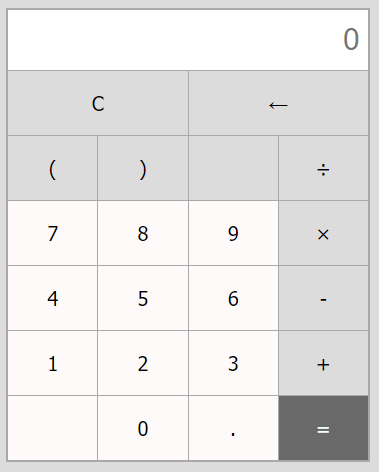
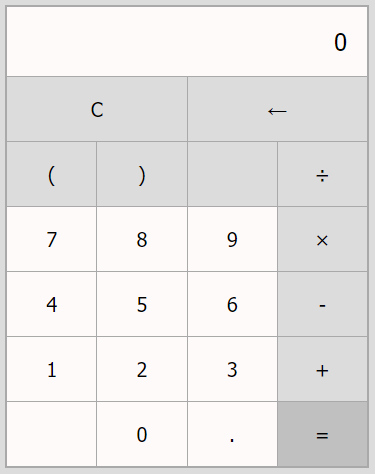
Updates

diff --git a/static/js/main.d95bdc78.chunk.js b/static/js/main.d95bdc78.chunk.js
@@ -1,0 +1,2 @@
+(this["webpackJsonpcalculator-react"]=this["webpackJsonpcalculator-react"]||[]).push([[0],{12:function(c,e,l){},14:function(c,e,l){"use strict";l.r(e);var a=l(1),t=l.n(a),i=l(3),n=l.n(i),s=l(4),r=l(5),d=l(7),o=l(6),_=(l(12),l(0)),u=function(c){Object(d.a)(l,c);var e=Object(o.a)(l);function l(){var c;return Object(s.a)(this,l),(c=e.call(this)).state={display:"0"},c.calcStr="",c}return Object(r.a)(l,[{key:"calculation",value:function(c){for(var e=(c=(c=c=c.replace(/([^[0-9.]{1})/g," $1 ").trim()).replace(/ {1,}/g," ")).split(/\s/),l=[],a=[],t=-1,i=-1,n=0;n<e.length;n++)switch(e[n]){case"+":for(;i>=0&&("+"===a[i]||"-"===a[i]||"*"===a[i]||"/"===a[i]);)l[++t]=a[i],i--;a[++i]=e[n];break;case"-":for(;i>=0&&("+"===a[i]||"-"===a[i]||"*"===a[i]||"/"===a[i]);)l[++t]=a[i],i--;a[++i]=e[n];break;case"*":for(;i>=0&&("*"===a[i]||"/"===a[i]);)l[++t]=a[i],i--;a[++i]=e[n];break;case"/":for(;i>=0&&("*"===a[i]||"/"===a[i]);)l[++t]=a[i],i--;a[++i]=e[n];break;case"(":a[++i]=e[n];break;case")":for(;i>=0&&"("!==a[i];)l[++t]=a[i],i--;i--;break;default:l[++t]=e[n]}for(;i>=0;)l[++t]=a[i],i--;i=-1;var s=t;for(t=0;t<=s;t++)switch(l[t]){case"+":a[--i]=a[i]+a[i+1];break;case"-":a[--i]=a[i]-a[i+1];break;case"*":a[--i]=a[i]*a[i+1];break;case"/":a[--i]=a[i]/a[i+1];break;default:a[++i]=parseFloat(l[t])}return a[i]}},{key:"equal",value:function(){if(this.calcStr){var c="";try{c=this.calculation(this.calcStr)}catch(e){c="\u041e\u0448\u0438\u0431\u043a\u0430 \u0432 \u0432\u044b\u0440\u0430\u0436\u0435\u043d\u0438\u0438!"}isNaN(c)&&(c="\u041e\u0448\u0438\u0431\u043a\u0430 \u0432 \u0432\u044b\u0440\u0430\u0436\u0435\u043d\u0438\u0438!"),this.setState({display:this.calcStr+"="+c})}}},{key:"addToInput",value:function(c){this.calcStr+=c,this.calcStr=this.control(this.calcStr),this.setState({display:this.calcStr})}},{key:"clean",value:function(){this.calcStr="0",this.setState({display:this.calcStr}),this.calcStr=""}},{key:"back",value:function(){this.calcStr=this.calcStr.substr(0,this.calcStr.length-1),this.setState({display:this.calcStr})}},{key:"control",value:function(c){return c=(c=(c=(c=c.replace(/\++/g,"+")).replace(/\\--/g,"+")).replace(/\.\./g,".")).replace(/[+-][-+]/g,"-")}},{key:"render",value:function(){var c=this;return Object(_.jsx)("div",{className:"container",children:Object(_.jsxs)("div",{className:"container__cells",children:[Object(_.jsx)("div",{className:"cell__display",children:this.state.display}),Object(_.jsx)("div",{className:"cell__clear cell__active",onClick:function(){c.clean()},children:"C"}),Object(_.jsx)("div",{className:"cell__back cell__active",onClick:function(){c.back()},children:"\u2190"}),Object(_.jsx)("div",{className:"cell__math cell__active",onClick:function(){c.addToInput("(")},children:"("}),Object(_.jsx)("div",{className:"cell__math cell__active",onClick:function(){c.addToInput(")")},children:")"}),Object(_.jsx)("div",{className:"cell__math cell__passive"}),Object(_.jsx)("div",{className:"cell__math cell__active",onClick:function(){c.addToInput("/")},children:"\xf7"}),Object(_.jsx)("div",{className:"cell__num cell__active",onClick:function(){c.addToInput("7")},children:"7"}),Object(_.jsx)("div",{className:"cell__num cell__active",onClick:function(){c.addToInput("8")},children:"8"}),Object(_.jsx)("div",{className:"cell__num cell__active",onClick:function(){c.addToInput("9")},children:"9"}),Object(_.jsx)("div",{className:"cell__math cell__active",onClick:function(){c.addToInput("*")},children:"\xd7"}),Object(_.jsx)("div",{className:"cell__num cell__active",onClick:function(){c.addToInput("4")},children:"4"}),Object(_.jsx)("div",{className:"cell__num cell__active",onClick:function(){c.addToInput("5")},children:"5"}),Object(_.jsx)("div",{className:"cell__num cell__active",onClick:function(){c.addToInput("6")},children:"6"}),Object(_.jsx)("div",{className:"cell__math cell__active",onClick:function(){c.addToInput("-")},children:"-"}),Object(_.jsx)("div",{className:"cell__num cell__active",onClick:function(){c.addToInput("1")},children:"1"}),Object(_.jsx)("div",{className:"cell__num cell__active",onClick:function(){c.addToInput("2")},children:"2"}),Object(_.jsx)("div",{className:"cell__num cell__active",onClick:function(){c.addToInput("3")},children:"3"}),Object(_.jsx)("div",{className:"cell__math cell__active",onClick:function(){c.addToInput("+")},children:"+"}),Object(_.jsx)("div",{className:"cell__num cell__passive"}),Object(_.jsx)("div",{className:"cell__num cell__active",onClick:function(){c.addToInput("0")},children:"0"}),Object(_.jsx)("div",{className:"cell__num cell__active",onClick:function(){c.addToInput(".")},children:"."}),Object(_.jsx)("div",{className:"cell__equal cell__active",onClick:function(){c.equal()},children:"="})]})})}}]),l}(t.a.Component);n.a.render(Object(_.jsx)(t.a.StrictMode,{children:Object(_.jsx)(u,{})}),document.getElementById("root"))}},[[14,1,2]]]);
+//# sourceMappingURL=main.d95bdc78.chunk.js.map

diff --git a/index.html b/index.html
@@ -1,1 +1,1 @@
-<!doctype html><html lang="en"><head><meta charset="UTF-8"><meta http-equiv="X-UA-Compatible" content="IE=edge"><meta name="viewport" content="width=device-width,initial-scale=1"><title>Calculator on React</title><link rel="shortcut icon" href="/calculator-react/images/calc-logo.png" type="image/png"><link href="/calculator-react/static/css/main.9b8e11c0.chunk.css" rel="stylesheet"></head><body><div id="root"></div><script>!function(e){function r(r){for(var n,a,l=r[0],c=r[1],f=r[2],p=0,s=[];p<l.length;p++)a=l[p],Object.prototype.hasOwnProperty.call(o,a)&&o[a]&&s.push(o[a][0]),o[a]=0;for(n in c)Object.prototype.hasOwnProperty.call(c,n)&&(e[n]=c[n]);for(i&&i(r);s.length;)s.shift()();return u.push.apply(u,f||[]),t()}function t(){for(var e,r=0;r<u.length;r++){for(var t=u[r],n=!0,l=1;l<t.length;l++){var c=t[l];0!==o[c]&&(n=!1)}n&&(u.splice(r--,1),e=a(a.s=t[0]))}return e}var n={},o={1:0},u=[];function a(r){if(n[r])return n[r].exports;var t=n[r]={i:r,l:!1,exports:{}};return e[r].call(t.exports,t,t.exports,a),t.l=!0,t.exports}a.m=e,a.c=n,a.d=function(e,r,t){a.o(e,r)||Object.defineProperty(e,r,{enumerable:!0,get:t})},a.r=function(e){"undefined"!=typeof Symbol&&Symbol.toStringTag&&Object.defineProperty(e,Symbol.toStringTag,{value:"Module"}),Object.defineProperty(e,"__esModule",{value:!0})},a.t=function(e,r){if(1&r&&(e=a(e)),8&r)return e;if(4&r&&"object"==typeof e&&e&&e.__esModule)return e;var t=Object.create(null);if(a.r(t),Object.defineProperty(t,"default",{enumerable:!0,value:e}),2&r&&"string"!=typeof e)for(var n in e)a.d(t,n,function(r){return e[r]}.bind(null,n));return t},a.n=function(e){var r=e&&e.__esModule?function(){return e.default}:function(){return e};return a.d(r,"a",r),r},a.o=function(e,r){return Object.prototype.hasOwnProperty.call(e,r)},a.p="/calculator-react/";var l=this["webpackJsonpcalculator-react"]=this["webpackJsonpcalculator-react"]||[],c=l.push.bind(l);l.push=r,l=l.slice();for(var f=0;f<l.length;f++)r(l[f]);var i=c;t()}([])</script><script src="/calculator-react/static/js/2.c6c01165.chunk.js"></script><script src="/calculator-react/static/js/main.b7154312.chunk.js"></script></body></html>
+<!doctype html><html lang="en"><head><meta charset="UTF-8"><meta http-equiv="X-UA-Compatible" content="IE=edge"><meta name="viewport" content="width=device-width,initial-scale=1"><title>Calculator on React</title><link rel="shortcut icon" href="/calculator-react/images/calc-logo.png" type="image/png"><link href="/calculator-react/static/css/main.4ad6ab22.chunk.css" rel="stylesheet"></head><body><div id="root"></div><script>!function(e){function r(r){for(var n,a,l=r[0],c=r[1],f=r[2],p=0,s=[];p<l.length;p++)a=l[p],Object.prototype.hasOwnProperty.call(o,a)&&o[a]&&s.push(o[a][0]),o[a]=0;for(n in c)Object.prototype.hasOwnProperty.call(c,n)&&(e[n]=c[n]);for(i&&i(r);s.length;)s.shift()();return u.push.apply(u,f||[]),t()}function t(){for(var e,r=0;r<u.length;r++){for(var t=u[r],n=!0,l=1;l<t.length;l++){var c=t[l];0!==o[c]&&(n=!1)}n&&(u.splice(r--,1),e=a(a.s=t[0]))}return e}var n={},o={1:0},u=[];function a(r){if(n[r])return n[r].exports;var t=n[r]={i:r,l:!1,exports:{}};return e[r].call(t.exports,t,t.exports,a),t.l=!0,t.exports}a.m=e,a.c=n,a.d=function(e,r,t){a.o(e,r)||Object.defineProperty(e,r,{enumerable:!0,get:t})},a.r=function(e){"undefined"!=typeof Symbol&&Symbol.toStringTag&&Object.defineProperty(e,Symbol.toStringTag,{value:"Module"}),Object.defineProperty(e,"__esModule",{value:!0})},a.t=function(e,r){if(1&r&&(e=a(e)),8&r)return e;if(4&r&&"object"==typeof e&&e&&e.__esModule)return e;var t=Object.create(null);if(a.r(t),Object.defineProperty(t,"default",{enumerable:!0,value:e}),2&r&&"string"!=typeof e)for(var n in e)a.d(t,n,function(r){return e[r]}.bind(null,n));return t},a.n=function(e){var r=e&&e.__esModule?function(){return e.default}:function(){return e};return a.d(r,"a",r),r},a.o=function(e,r){return Object.prototype.hasOwnProperty.call(e,r)},a.p="/calculator-react/";var l=this["webpackJsonpcalculator-react"]=this["webpackJsonpcalculator-react"]||[],c=l.push.bind(l);l.push=r,l=l.slice();for(var f=0;f<l.length;f++)r(l[f]);var i=c;t()}([])</script><script src="/calculator-react/static/js/2.c6c01165.chunk.js"></script><script src="/calculator-react/static/js/main.d95bdc78.chunk.js"></script></body></html>

diff --git a/static/css/main.4ad6ab22.chunk.css b/static/css/main.4ad6ab22.chunk.css
@@ -1,0 +1,2 @@
+body{background-color:#dcdcdc;-webkit-user-select:none;-ms-user-select:none;user-select:none}.container__cells{display:grid;grid-template-columns:1fr 1fr 1fr 1fr;grid-gap:1px;background-color:#a9a9a9;max-width:360px;padding:2px;font-family:Tahoma}.cell__active{color:#000;padding:20px;font-size:20px;text-align:center;cursor:pointer}.cell__passive{cursor:default}.cell__display{grid-column:1/5;color:#000;background-color:snow;padding:20px;font-size:24px;height:auto;text-align:right;word-break:break-all;cursor:default;-webkit-user-select:text;-ms-user-select:text;user-select:text}.cell__clear{grid-column:1/3;background-color:#dcdcdc}.cell__back{grid-column:3/5}.cell__back,.cell__math{background-color:#dcdcdc}.cell__math,.cell__num{grid-column:1fr}.cell__num{background-color:snow}.cell__equal{grid-column:1fr;background-color:silver}.cell__active:hover{background-color:#696969;color:azure}
+/*# sourceMappingURL=main.4ad6ab22.chunk.css.map */
